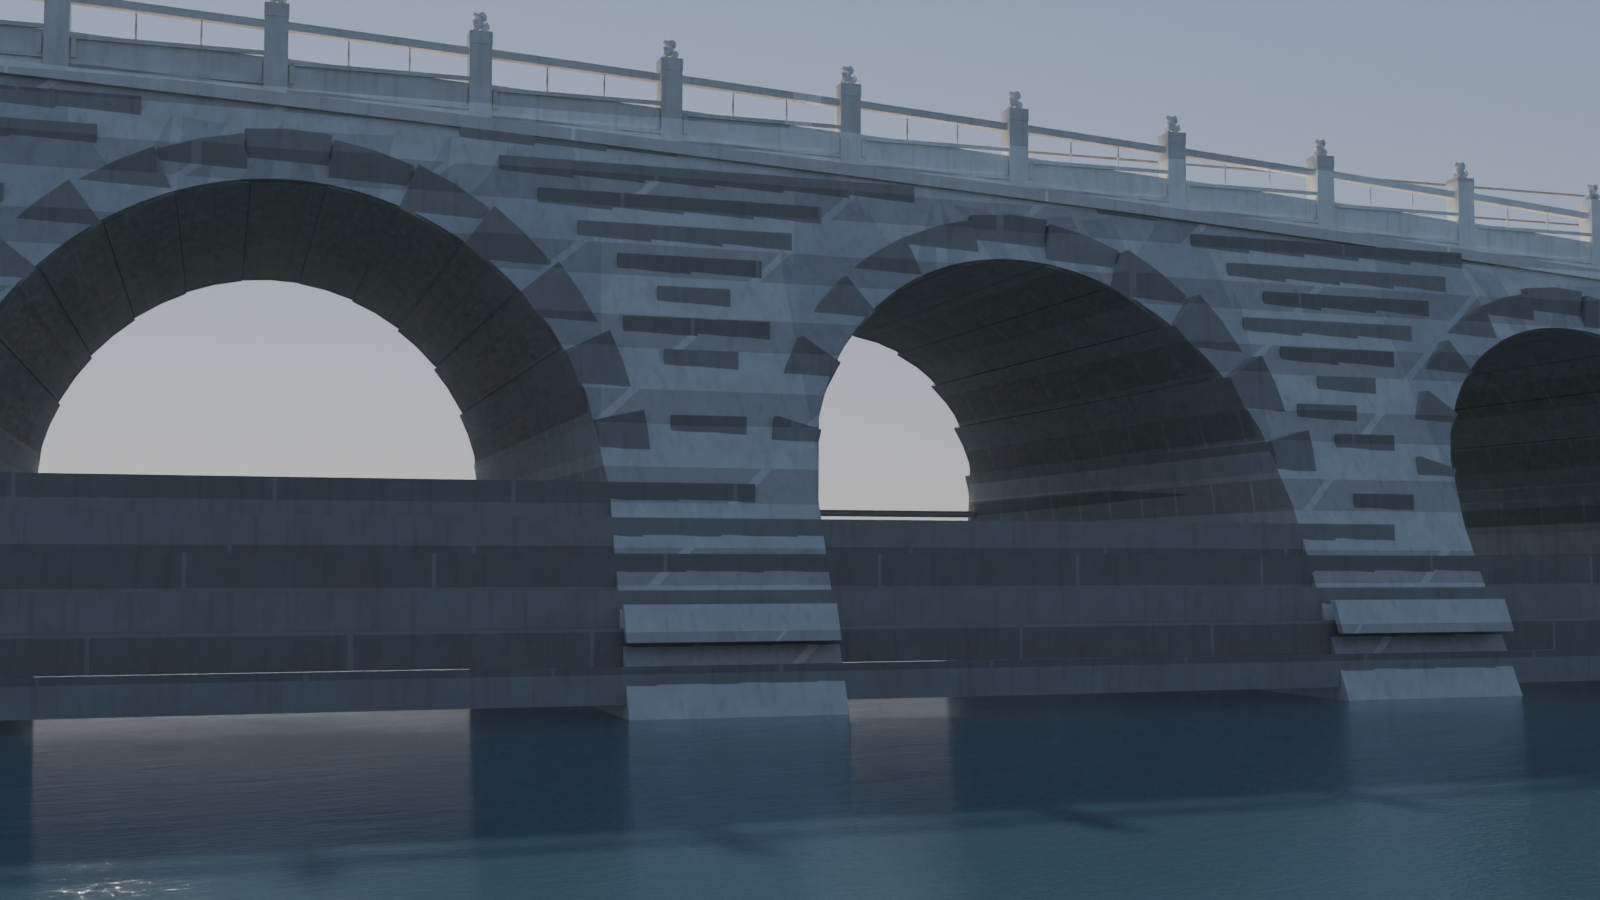
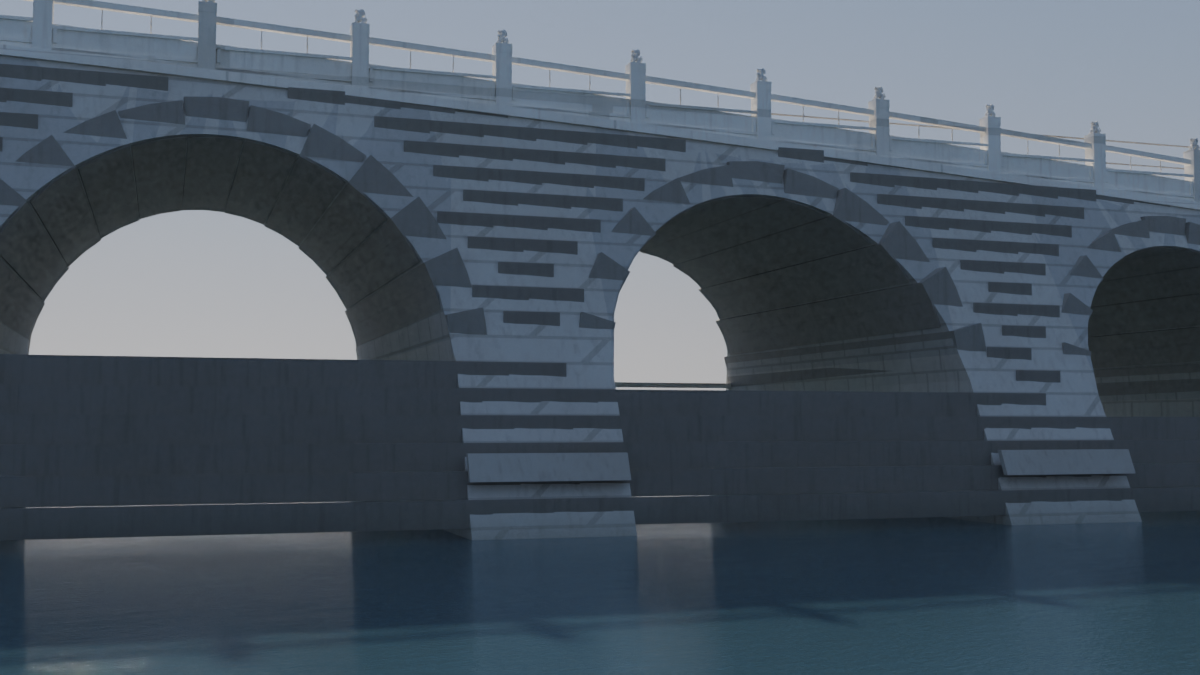
fix(e30): M17a-d 材质灯光第一批——shader双真bug: 奇数行竖缝x_shift恒0致奇偶行交替明暗横带(条纹贴面真根因, 非贴图)/mix_dark Fac=jmin把暗化乘石面缝反而亮(反向); 缝网格对齐几何(0.40/0.90/相位0.15/0.5); 风化噪声2.6->0.6大软斑; 水线带抬出水面(z0.55 h0.9, 原z=0全淹=干湿分界缺失); 基色暖偏0.448; 券环程序缝关闭(放射缝在几何); 砧石前脸块局部UV+FACE_DEPTH0.006/FACE_PROUD0.004/露体边距收紧; 平色消融证实残留暗块=几何(跳块露体带), 触发M18

diff --git a/e30_shikongqiao_video/3d/materials.py b/e30_shikongqiao_video/3d/materials.py
@@ -18,7 +18,8 @@ def _principled(mat):
 
 def stone_material(name, base_rgb, joint=0.020, course_h=0.42, weather=0.55,
                    waterline_z=0.0, waterline_h=0.55, block_var=0.12,
-                   bump_strength=0.38, base_rough=0.82):
+                   bump_strength=0.38, base_rough=0.82,
+                   course_w=None, z_phase=0.0, x_phase=0.0, uv_joints=False):
     """古建石构材质: 分层砌缝(横向) + 竖向错缝 + 逐块色差 + 风化斑驳
     + 缝凹槽/石面颗粒 bump + 水线以下更深更绿。"""
     m = bpy.data.materials.new(name)
@@ -37,8 +38,11 @@ def stone_material(name, base_rgb, joint=0.020, course_h=0.42, weather=0.55,
     nt.links.new(geo.outputs["Position"], sep.inputs["Vector"])
 
     # ── 砌缝: 横向按 course_h 分层, 每层内竖向错缝(奇偶层半宽偏移) ──
+    _cw = course_w if course_w is not None else 2.0 * course_h
+    z_off = nt.nodes.new("ShaderNodeMath"); z_off.operation = 'SUBTRACT'
+    nt.links.new(sep.outputs["Z"], z_off.inputs[0]); z_off.inputs[1].default_value = z_phase
     z_scaled = nt.nodes.new("ShaderNodeMath"); z_scaled.operation = 'MULTIPLY'
-    nt.links.new(sep.outputs["Z"], z_scaled.inputs[0])
+    nt.links.new(z_off.outputs[0], z_scaled.inputs[0])
     z_scaled.inputs[1].default_value = 1.0 / course_h
     z_floor = nt.nodes.new("ShaderNodeMath"); z_floor.operation = 'FLOOR'
     nt.links.new(z_scaled.outputs[0], z_floor.inputs[0])
@@ -48,19 +52,24 @@ def stone_material(name, base_rgb, joint=0.020, course_h=0.42, weather=0.55,
     z_par = nt.nodes.new("ShaderNodeMath"); z_par.operation = 'PINGPONG'
     z_par.inputs[1].default_value = 1.0; z_par.inputs[2].default_value = 1.0
     nt.links.new(z_floor.outputs[0], z_par.inputs[0])
-    # 竖向: X 方向按半块错开
+    # 竖向: X 按块宽 _cw 分缝, 奇数层错半块。[M17修bug] 原实现 (x_f+0.5)*z_par
+    # 在奇数层(z_par=0)恒为 0 -> thin() 判整行为缝 -> jmin 恒 0 -> 奇偶行明暗交替
+    # 横带 = "条纹贴面"棋盘真根因。改为 x_f + 0.5*(1-z_par)。
+    x_off = nt.nodes.new("ShaderNodeMath"); x_off.operation = 'SUBTRACT'
+    nt.links.new(sep.outputs["X"], x_off.inputs[0]); x_off.inputs[1].default_value = x_phase
     x_s = nt.nodes.new("ShaderNodeMath"); x_s.operation = 'MULTIPLY'
-    nt.links.new(sep.outputs["X"], x_s.inputs[0])
-    x_s.inputs[1].default_value = 1.0 / (course_h * 2.0)
+    nt.links.new(x_off.outputs[0], x_s.inputs[0])
+    x_s.inputs[1].default_value = 1.0 / _cw
     x_f = nt.nodes.new("ShaderNodeMath"); x_f.operation = 'FRACT'
     nt.links.new(x_s.outputs[0], x_f.inputs[0])
-    # 奇数层: 竖缝位置反向
-    x_add = nt.nodes.new("ShaderNodeMath"); x_add.operation = 'ADD'
-    nt.links.new(x_f.outputs[0], x_add.inputs[0])
-    x_add.inputs[1].default_value = 0.5
-    x_shift = nt.nodes.new("ShaderNodeMath"); x_shift.operation = 'MULTIPLY'
-    nt.links.new(x_add.outputs[0], x_shift.inputs[0])
-    nt.links.new(z_par.outputs[0], x_shift.inputs[1])
+    par_inv = nt.nodes.new("ShaderNodeMath"); par_inv.operation = 'SUBTRACT'
+    par_inv.inputs[0].default_value = 1.0
+    nt.links.new(z_par.outputs[0], par_inv.inputs[1])
+    half_off = nt.nodes.new("ShaderNodeMath"); half_off.operation = 'MULTIPLY'
+    nt.links.new(par_inv.outputs[0], half_off.inputs[0]); half_off.inputs[1].default_value = 0.5
+    x_shift = nt.nodes.new("ShaderNodeMath"); x_shift.operation = 'ADD'
+    nt.links.new(x_f.outputs[0], x_shift.inputs[0])
+    nt.links.new(half_off.outputs[0], x_shift.inputs[1])
     x_fin = nt.nodes.new("ShaderNodeMath"); x_fin.operation = 'FRACT'
     nt.links.new(x_shift.outputs[0], x_fin.inputs[0])
 
@@ -76,8 +85,25 @@ def stone_material(name, base_rgb, joint=0.020, course_h=0.42, weather=0.55,
         inv.inputs[0].default_value = 1.0
         nt.links.new(mx.outputs[0], inv.inputs[1])
         return inv
-    jz = thin(z_frac.outputs[0], joint / course_h)
-    jx = thin(x_fin.outputs[0], joint / (course_h * 2.0))
+    if uv_joints:
+        # [M17] 砧石前脸 UV 已按块局部米展平 -> 缝沿真实块界, 不跨收分斜面/不漂缝
+        attr = nt.nodes.new("ShaderNodeAttribute")
+        attr.attribute_name = "UVMap"
+        usep = nt.nodes.new("ShaderNodeSeparateXYZ")
+        nt.links.new(attr.outputs["Vector"], usep.inputs["Vector"])
+        vu_s = nt.nodes.new("ShaderNodeMath"); vu_s.operation = 'DIVIDE'
+        nt.links.new(usep.outputs["X"], vu_s.inputs[0]); vu_s.inputs[1].default_value = _cw
+        vu_f = nt.nodes.new("ShaderNodeMath"); vu_f.operation = 'FRACT'
+        nt.links.new(vu_s.outputs[0], vu_f.inputs[0])
+        vv_s = nt.nodes.new("ShaderNodeMath"); vv_s.operation = 'DIVIDE'
+        nt.links.new(usep.outputs["Y"], vv_s.inputs[0]); vv_s.inputs[1].default_value = course_h
+        vv_f = nt.nodes.new("ShaderNodeMath"); vv_f.operation = 'FRACT'
+        nt.links.new(vv_s.outputs[0], vv_f.inputs[0])
+        jz = thin(vv_f.outputs[0], joint / course_h)
+        jx = thin(vu_f.outputs[0], joint / _cw)
+    else:
+        jz = thin(z_frac.outputs[0], joint / course_h)
+        jx = thin(x_fin.outputs[0], joint / _cw)
     jmin = nt.nodes.new("ShaderNodeMath"); jmin.operation = 'MINIMUM'
     nt.links.new(jz.outputs[0], jmin.inputs[0]); nt.links.new(jx.outputs[0], jmin.inputs[1])
 
@@ -90,15 +116,17 @@ def stone_material(name, base_rgb, joint=0.020, course_h=0.42, weather=0.55,
     nt.links.new(x_blk.outputs[0], bx_add.inputs[0]); bx_add.inputs[1].default_value = 0.5
     bx_mul = nt.nodes.new("ShaderNodeMath"); bx_mul.operation = 'MULTIPLY'
     nt.links.new(bx_add.outputs[0], bx_mul.inputs[0])
-    bx_mul.inputs[1].default_value = course_h * 2.0
+    bx_mul.inputs[1].default_value = _cw
     bz_add = nt.nodes.new("ShaderNodeMath"); bz_add.operation = 'ADD'
     nt.links.new(z_floor.outputs[0], bz_add.inputs[0]); bz_add.inputs[1].default_value = 0.5
     bz_mul = nt.nodes.new("ShaderNodeMath"); bz_mul.operation = 'MULTIPLY'
     nt.links.new(bz_add.outputs[0], bz_mul.inputs[0])
     bz_mul.inputs[1].default_value = course_h
+    bz_off = nt.nodes.new("ShaderNodeMath"); bz_off.operation = 'ADD'
+    nt.links.new(bz_mul.outputs[0], bz_off.inputs[0]); bz_off.inputs[1].default_value = z_phase
     blk_vec = nt.nodes.new("ShaderNodeCombineXYZ")
     nt.links.new(bx_mul.outputs[0], blk_vec.inputs["X"])
-    nt.links.new(bz_mul.outputs[0], blk_vec.inputs["Y"])
+    nt.links.new(bz_off.outputs[0], blk_vec.inputs["Y"])
     blk_vec.inputs["Z"].default_value = 3.17
     blk_noise = nt.nodes.new("ShaderNodeTexNoise")
     nt.links.new(blk_vec.outputs["Vector"], blk_noise.inputs["Vector"])
@@ -123,7 +151,7 @@ def stone_material(name, base_rgb, joint=0.020, course_h=0.42, weather=0.55,
     # ── 风化斑驳: Noise 扰动基色 ──
     noise = nt.nodes.new("ShaderNodeTexNoise")
     nt.links.new(geo.outputs["Position"], noise.inputs["Vector"])
-    noise.inputs["Scale"].default_value = 2.6
+    noise.inputs["Scale"].default_value = 0.6   # [M17] 2.6->0.6: 真照色斑2~4m大软斑, 原尺度=每块一格读成棋盘
     noise.inputs["Detail"].default_value = 6.0
     noise.inputs["Roughness"].default_value = 0.55
     ramp = nt.nodes.new("ShaderNodeValToRGB")
@@ -140,8 +168,12 @@ def stone_material(name, base_rgb, joint=0.020, course_h=0.42, weather=0.55,
     mix1.inputs["Fac"].default_value = weather
 
     mix_dark = nt.nodes.new("ShaderNodeMixRGB"); mix_dark.blend_type = 'MULTIPLY'
-    mix_dark.inputs["Color2"].default_value = (0.74, 0.72, 0.70, 1.0)   # 缝内变暗
-    nt.links.new(jmin.outputs[0], mix_dark.inputs["Fac"])
+    mix_dark.inputs["Color2"].default_value = (0.80, 0.79, 0.77, 1.0)   # [M17] 缝内变暗(侵蚀浅灰)
+    # [M17修bug] 原 Fac=jmin(石面1/缝0) 把暗化乘在石面上、缝反而亮 —— 反向。
+    jm_inv = nt.nodes.new("ShaderNodeMath"); jm_inv.operation = 'SUBTRACT'
+    jm_inv.inputs[0].default_value = 1.0
+    nt.links.new(jmin.outputs[0], jm_inv.inputs[1])
+    nt.links.new(jm_inv.outputs[0], mix_dark.inputs["Fac"])
     nt.links.new(mix1.outputs["Color"], mix_dark.inputs["Color1"])
     # 水线以下更暗更绿(藻痕): 叠加低频噪声扰动 Z, 形成微小起伏与块石吸水率差异, 杜绝机械直横线
     w_noise = nt.nodes.new("ShaderNodeTexNoise")
@@ -165,7 +197,7 @@ def stone_material(name, base_rgb, joint=0.020, course_h=0.42, weather=0.55,
     mix_water = nt.nodes.new("ShaderNodeMixRGB"); mix_water.blend_type = 'MIX'
     nt.links.new(wcl.outputs[0], mix_water.inputs["Fac"])
     nt.links.new(mix_dark.outputs["Color"], mix_water.inputs["Color1"])
-    mix_water.inputs["Color2"].default_value = (base_rgb[0]*0.36, base_rgb[1]*0.42, base_rgb[2]*0.32, 1.0)
+    mix_water.inputs["Color2"].default_value = (base_rgb[0]*0.52, base_rgb[1]*0.56, base_rgb[2]*0.48, 1.0)  # [M17] 0.36过黑, 真照水渍带是中深灰
     # ── M10.2 风化层(五审残留1/3): 腔隙积垢 + 棱缘磨亮 + 竖向雨痕 ──
     geo2 = nt.nodes.new("ShaderNodeNewGeometry")
     pr = nt.nodes.new("ShaderNodeValToRGB")
@@ -406,13 +438,19 @@ def fog_material(name="fog", density=0.003, color=(0.70, 0.78, 0.88)):
 # (RGB 252,245,227), 青石基色本身是冷灰蓝 —— 两件事不矛盾, A/B 对照见
 # 3d/ab_qingshi_split.py 输出。
 
-def qingshi_material(name, base_rgb=(0.430, 0.428, 0.408), joint=0.024,
-                     block_var=0.36, bump_strength=0.68):
+def qingshi_material(name, base_rgb=(0.448, 0.440, 0.412), joint=0.024,
+                     block_var=0.36, bump_strength=0.68,
+                     course_h=0.40, course_w=0.90, z_phase=0.15, x_phase=0.5,
+                     uv_joints=False):
     """青石(石灰岩)桥体: 冷灰蓝基色 + 鲜明大块条石横分层与纵错缝 + 块级灰度差。
     依据二审意见: 杜绝'程序噪声混凝土抹灰'观感, 强化规整石砌实体与竖缝凹槽。
     [六审B] joint/block_var/bump 开放为参数, 支撑砌缝视觉三级层级。"""
     # [八审x2] weather 0.42->0.22: 世界坐标噪声在每个独立石块面相位不同,
     # 高权重在提亮基色上读成"棋盘斑块"(块间对比主因已由此承担)。
-    return stone_material(name, base_rgb, joint=joint, course_h=0.46,
-                          weather=0.22, waterline_h=0.60, block_var=block_var,
+    # [M17] 网格对齐几何砧石(course_h=0.40/course_w=0.90/z起0.15/x相位0.5);
+    # 水线带抬到 z∈[0.55-0.9, 0.55] 覆盖贴面起砌带(原 z=0 半淹水下=干湿分界缺失)。
+    return stone_material(name, base_rgb, joint=joint, course_h=course_h,
+                          course_w=course_w, z_phase=z_phase, x_phase=x_phase,
+                          weather=0.16, waterline_z=0.55, waterline_h=0.90,
+                          block_var=block_var, uv_joints=uv_joints,
                           bump_strength=bump_strength, base_rough=0.86)

diff --git a/e30_shikongqiao_video/3d/masonry.py b/e30_shikongqiao_video/3d/masonry.py
@@ -30,8 +30,7 @@ VOUSSOIR_FACE_W = 1.00      # 兜底面宽(仅当目标表缺项时用)
 VOUSSOIR_TARGET = [17, 15, 13, 13, 11, 11, 9, 9, 7]
 RING_T = 0.54              # [七审P0-2] 券脸径向宽 0.62->0.54(-13%): '轻一点的券环+更大孔占比', 厚重感一半来自环太宽
 JOINT = 0.02               # 灰缝 m
-FACE_DEPTH = 0.03          # [八审x3] 0.12->0.03: 贴面浮雕在低角光下自投影,
-                           # 才是'棋盘斑块'真因(非贴图); 真桥砧石近齐口灰缝
+FACE_DEPTH = 0.006         # [M17x2] 0.03->0.006: 真照砧石齐口平缝, 3cm 侧壁在掠射光仍投影成块影
 # [六审E] 券石改全深筒券: 真桥透洞可见阶梯状环石内壁, 原"前后薄浮雕"读成
 # "正立面开孔+光滑内筒"。内弧伸入洞口 BARREL_PROTRUDE, 邻块留放射缝 JOINT_GAP,
 # 端面出墙面 FACE_PROUD(保留正面环带阴影)。
@@ -39,7 +38,7 @@ BARREL_PROTRUDE = 0.03
 JOINT_GAP = 0.0125
 JOINT_GAP_BACK = 0.004     # [七审P1-2] 放射缝前后端不等宽: 前脸 0.0125, 内壁
                            #   0.004 → 深度权重 100→~35, 去"洋葱圈隧道"感
-FACE_PROUD = 0.02
+FACE_PROUD = 0.004        # [M17c] 0.02->0.004: 券石出挑2cm侧壁在掠射光下投影成暗三角(拱肩棋盘最后残留), 真照券脸近齐平
 COURSE_H = 0.40            # 砧石层高 m
 COURSE_W = 0.90            # 砧石宽 m
 
@@ -159,12 +158,13 @@ def build_coursing(bm, hw_front, half_depth):
             # 桥面曲线: 砧石顶不得超桥面; 且需在桥体收分轮廓内
             deck_here = G.deck_z(min(max(cx, -G.BRIDGE_LEN / 2), G.BRIDGE_LEN / 2))
             in_body = abs(cx) <= G.BRIDGE_LEN / 2 + 1.3
-            _m = max(COURSE_W, COURSE_H) / 2.0
+            _m = COURSE_H / 2.0 + 0.02  # [M17b] 0.08->0.02: 真照拱肩砧石直接切进券环线, 露体带=一条缝宽
             if in_body and cz < deck_here - 0.05 and not _in_arch(cx, cz, m=_m):
                 for side in (1, -1):
                     hw = _hw(cx, cz)
                     yb = side * hw - (half_depth if side > 0 else 0.0)
-                    _box(bm, cx, min(yb, yb + half_depth), cz, COURSE_W, half_depth, COURSE_H)
+                    _box(bm, cx, min(yb, yb + half_depth), cz, COURSE_W, half_depth, COURSE_H,
+                         uv_face=(cx - COURSE_W / 2.0, cz - COURSE_H / 2.0))
                     n += 1
             x += COURSE_W
         z += COURSE_H
@@ -172,19 +172,29 @@ def build_coursing(bm, hw_front, half_depth):
     return n
 
 
-def _box(bm, xc, yc, zc, dx, dy, dz):
+def _box(bm, xc, yc, zc, dx, dy, dz, uv_face=None):
+    """uv_face=(u0,z0): 传入则前脸(+Y)展平到块局部 UV(缝沿块界, 不跨块)。"""
     x0, x1 = xc - dx / 2, xc + dx / 2
     y0, y1 = yc, yc + dy
     z0, z1 = zc - dz / 2, zc + dz / 2
     vs = [bm.verts.new(p) for p in (
         (x0, y0, z0), (x1, y0, z0), (x1, y1, z0), (x0, y1, z0),
         (x0, y0, z1), (x1, y0, z1), (x1, y1, z1), (x0, y1, z1))]
-    for f in ((0, 1, 2, 3), (7, 6, 5, 4), (0, 4, 5, 1), (1, 5, 6, 2),
-              (2, 6, 7, 3), (3, 7, 4, 0)):
+    uv = bm.loops.layers.uv.active or bm.loops.layers.uv.new("UVMap")
+    for fi, f in enumerate(((0, 1, 2, 3), (7, 6, 5, 4), (0, 4, 5, 1), (1, 5, 6, 2),
+                            (2, 6, 7, 3), (3, 7, 4, 0))):
         try:
-            bm.faces.new([vs[k] for k in f])
+            fc = bm.faces.new([vs[k] for k in f])
         except ValueError:
-            pass
+            continue
+        if uv_face is not None and fi in (0, 1):  # 前后脸都展平(桥两侧各有朝外脸)
+            u0, z0 = uv_face
+            # v[0..3]=(x0,y0,z0),(x1,..),(x1,y1,z0)... 前脸按局部米展平
+            for lp in fc.loops:
+                vi = lp.vert.index if hasattr(lp.vert, "index") else 0
+                lx = lp.vert.co.x - u0
+                lz = lp.vert.co.z - z0
+                lp[uv].uv = (lx, lz)
 
 
 def build_masonry(hw_front, half_depth=FACE_DEPTH):

diff --git a/e30_shikongqiao_video/3d/build_scene2.py b/e30_shikongqiao_video/3d/build_scene2.py
@@ -353,11 +353,15 @@ def build():
     # 缝~60-70% 抢券石的戏): 几何 2068+ 块全保留, 只调材质权重。
     # [八审材质刀] 冷灰蓝→青白石暖灰高漫反射: 基色提亮去蓝(0.43 级中性暖灰),
     # 缝侵蚀浅灰化在 materials.py, 暖灰污染在风化 ramp。
+    # [M17] 缝权重按真照重定: 砧石间是零缝触边盒, 缝全靠程序线 -> 0.014m+0.72暗化
+    # 才在 10m 视距读得出砌层(原 0.008/0.024 太弱, 反被色差噪声淹没)。
+    # 券环: 放射缝是真实几何(JOINT_GAP 0.0125), 程序网格缝方向不对 -> joint≈0 关闭。
     m_body = MAT.qingshi_material("stone_body", block_var=0.08)
     m_ring = MAT.qingshi_material("stone_ring", (0.455, 0.450, 0.430),
-                                  joint=0.020, block_var=0.10, bump_strength=0.65)
+                                  joint=0.0005, block_var=0.10, bump_strength=0.65)
     m_course = MAT.qingshi_material("stone_course", (0.440, 0.436, 0.416),
-                                    joint=0.008, block_var=0.04, bump_strength=0.16)
+                                    joint=0.014, block_var=0.04, bump_strength=0.22,
+                                    uv_joints=True)
     m_rail = MAT.marble_material("marble")
     m_water = MAT.water_material()
     m_earth = MAT.earth_material("shore_earth")

diff --git a/e30_shikongqiao_video/3d/_mat_ablate2.py b/e30_shikongqiao_video/3d/_mat_ablate2.py
@@ -1,0 +1,14 @@
+# 消融2: 全平色 + 分别隐藏 coursing/voussoir, 定暗三角归属
+import bpy, sys
+m = bpy.data.materials.new("flat"); m.use_nodes = True
+b = m.node_tree.nodes.get("Principled BSDF")
+b.inputs["Base Color"].default_value = (0.5, 0.5, 0.5, 1.0)
+b.inputs["Roughness"].default_value = 0.9
+for obj in bpy.data.objects:
+    if obj.type == 'MESH' and not any(k in obj.name for k in ("water", "shore", "fog")):
+        obj.data.materials.clear(); obj.data.materials.append(m)
+mode = sys.argv[-1]
+if mode == "nocourse":
+    bpy.data.objects['coursing'].hide_render = True
+elif mode == "nobody":
+    bpy.data.objects['bridge_body'].hide_render = True

diff --git a/e30_shikongqiao_video/3d/_mat_ablate.py b/e30_shikongqiao_video/3d/_mat_ablate.py
@@ -1,0 +1,9 @@
+# M17 受控二分: 覆盖全场景材质为纯平色, 判定暗三角是几何自投影还是贴图
+import bpy
+m = bpy.data.materials.new("flat"); m.use_nodes = True
+b = m.node_tree.nodes.get("Principled BSDF")
+b.inputs["Base Color"].default_value = (0.5, 0.5, 0.5, 1.0)
+b.inputs["Roughness"].default_value = 0.9
+for obj in bpy.data.objects:
+    if obj.type == 'MESH' and "water" not in obj.name and "shore" not in obj.name and "tree" not in obj.name.lower():
+        obj.data.materials.clear(); obj.data.materials.append(m)
